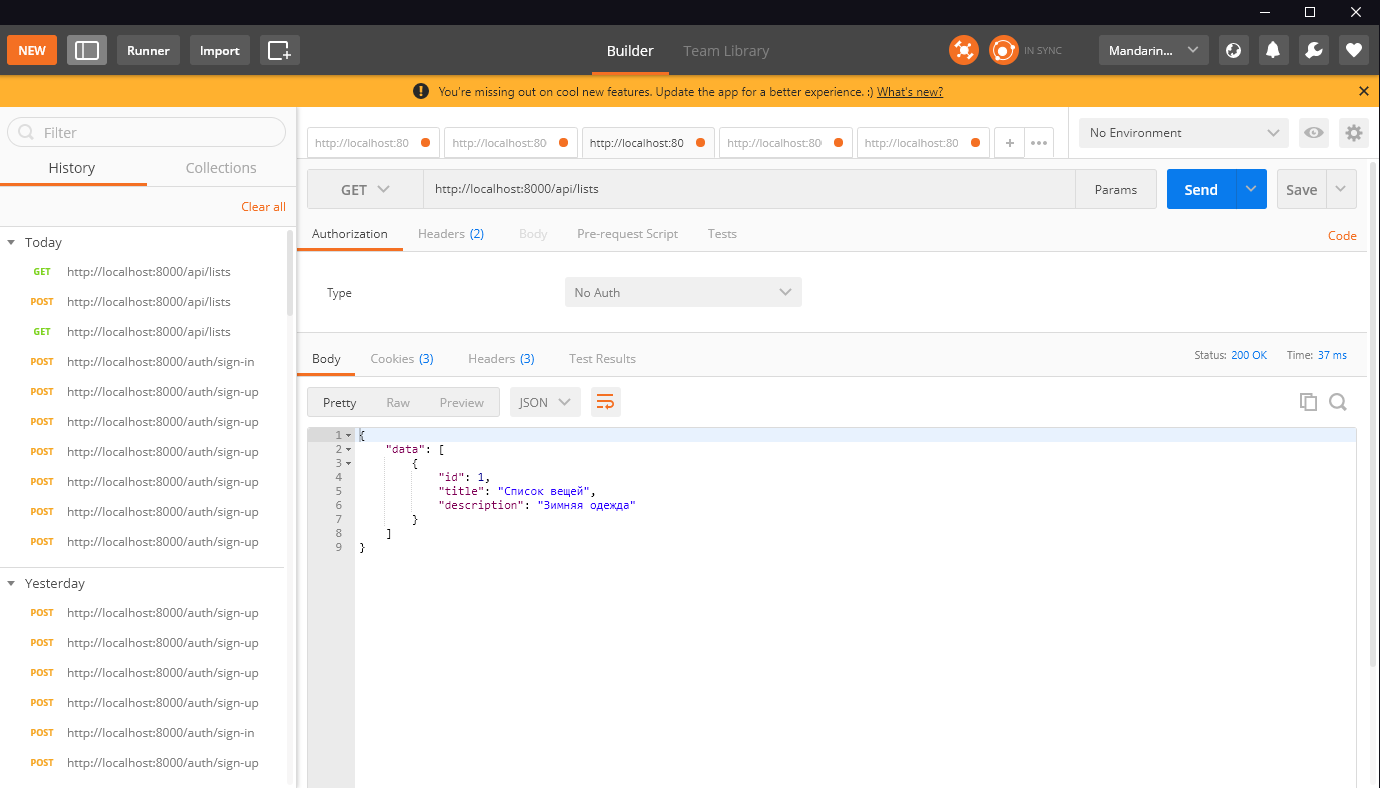
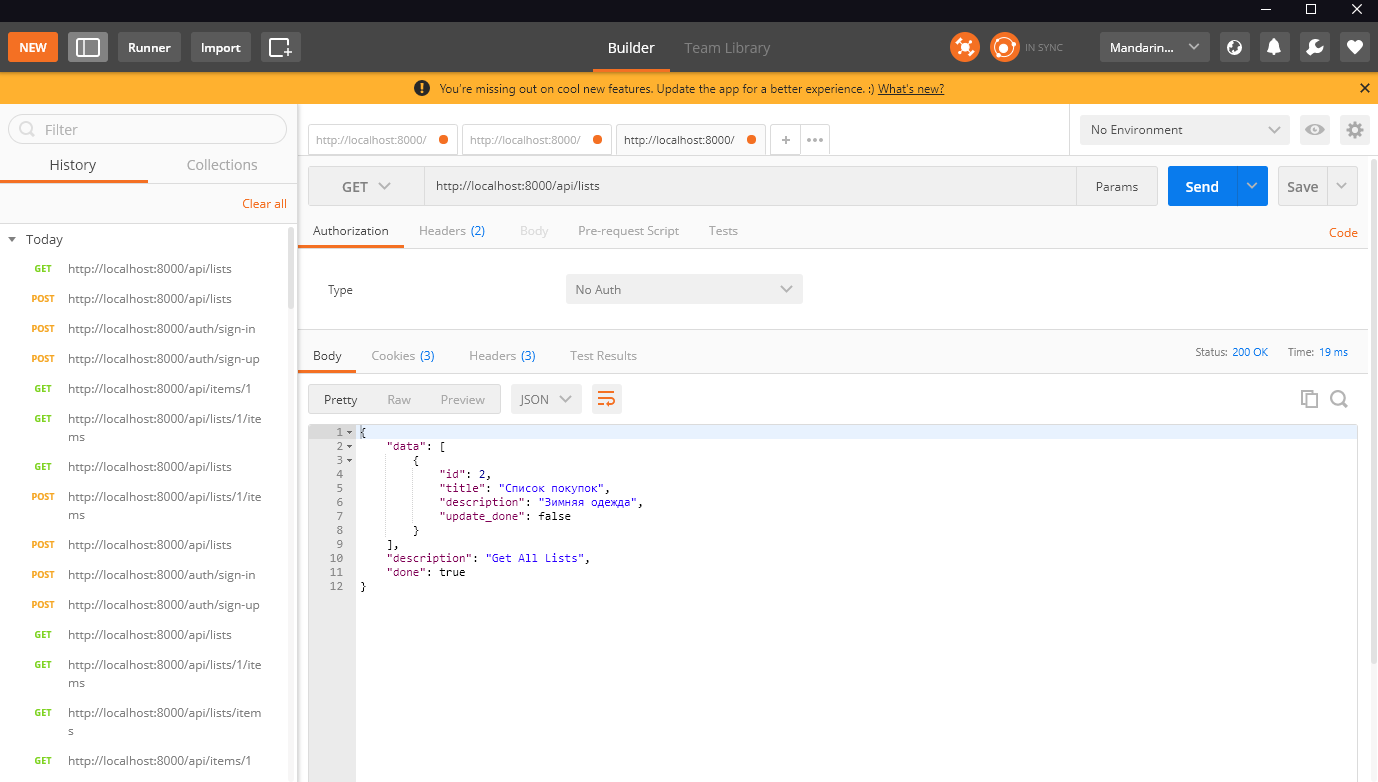
Updated README

diff --git a/README.md b/README.md
@@ -28,6 +28,15 @@
 - <a href="https://www.postman.com/downloads/">Postman</a>
 - <a href="https://www.docker.com/products/docker-desktop">Docker</a>
 
+### Fix `go.sum`:
+1) ![](images/gomod.png)
+2) ![](images/gomod2.png)
+3) ![](images/gomod3.png)
+
+### Fix format file `wait-for-postgres.sh` for unix systems:
+1) ![](images/selectfile.png)
+2) ![](images/wait-for-postgresUnix.png)
+
 ### Configure `Terminal` to `Project Location`:
 ```
 Set-Location -Path E:\GoLangProjects\WebApplication
@@ -47,7 +56,7 @@ docker-compose up web-app
 ### Docker Desktop:
 ![](images/Docker1.png)
 ![](images/Docker2.png)
-## В случаи пустой базы данных или первого запуска, необходимо сделать миграцию:
+## В случаи пустой базы данных или первого запуска, необходимо сделать миграцию в другом `terminal`, где не запущено приложение:
 ```
 migrate -path ./schema -database 'mandarin4ek/webapp:postgresv1.0://postgres:rootdocker@localhost:5436/postgres?sslmode=disable' up
 migrate -path ./schema -database 'mandarin4ek/webapp:postgresv1.0://postgres:rootdocker@localhost:5436/postgres?sslmode=disable' down
@@ -69,3 +78,5 @@ migrate -path ./schema -database 'mandarin4ek/webapp:postgresv1.0://postgres:roo
 ![](images/Postman7.png)
 ![](images/Postman8.png)
 ![](images/Postman9.png)
+![](images/Postman10.png)
+![](images/Postman11.png)
